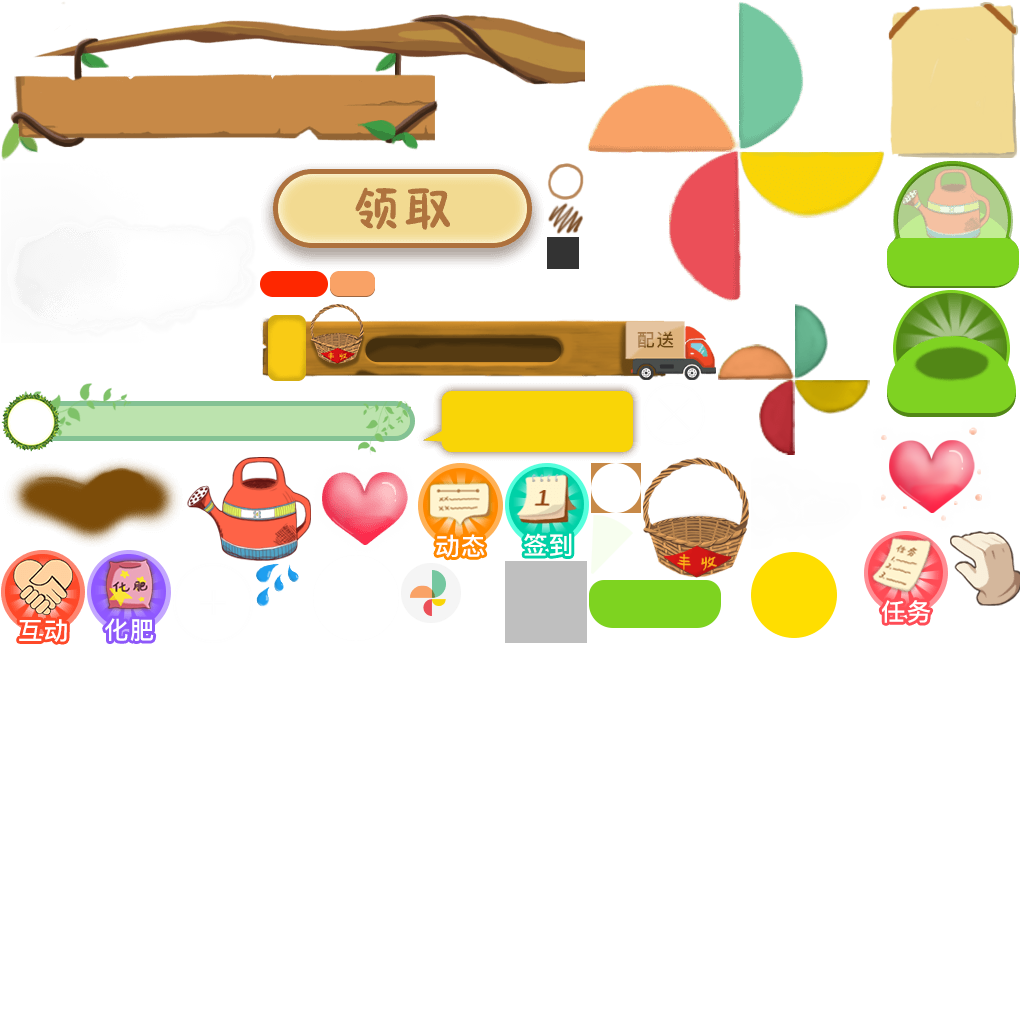
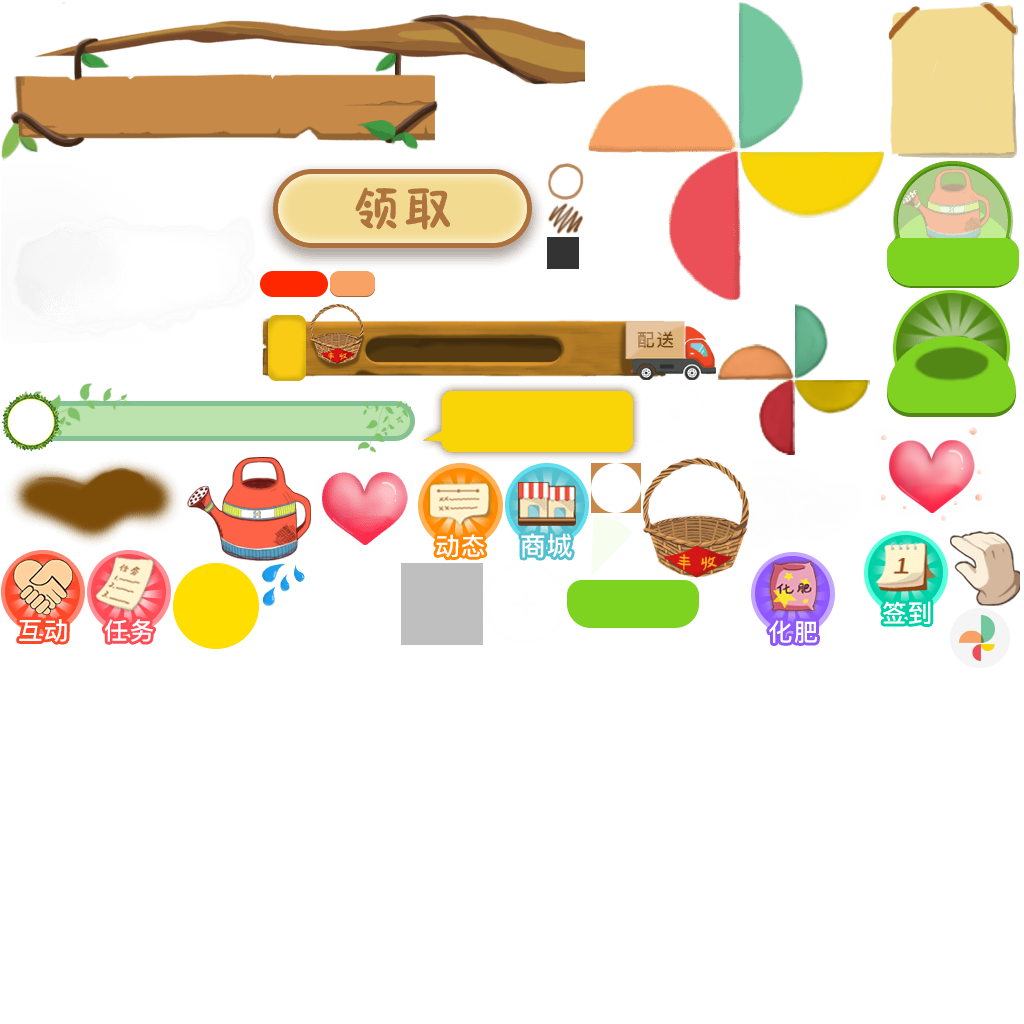
修改化肥动画，添加商城入口，修改浇水更新会回到自己果园

Changed region(s): [[0.375, 0.4375, 0.5938, 0.6562], [0.6562, 0.5, 0.9688, 0.6562], [0.0625, 0.5312, 0.2812, 0.6562]]

diff --git a/src/Game/MainScene.ts b/src/Game/MainScene.ts
@@ -82,6 +82,8 @@ class MainScene extends eui.Component implements eui.UIComponent {
 	private guide_img: eui.Image;
 	private share_friend:eui.Image;
 	private scr_seed:eui.Scroller;
+	private hasCheck = false;			//是否检查过好友
+	private btn_store:eui.Image;
 
 
 	/**
@@ -167,6 +169,11 @@ class MainScene extends eui.Component implements eui.UIComponent {
 		this.gro_love.addEventListener(egret.TouchEvent.TOUCH_TAP, this.loveTouch, this);
 		this.friend_kettle.addEventListener(egret.TouchEvent.TOUCH_TAP, this.friend_water, this)
 		this.guide_img.addEventListener(egret.TouchEvent.TOUCH_TAP, this.toGuide, this);
+		this.btn_store.addEventListener(egret.TouchEvent.TOUCH_TAP,this.tostroe,this)
+	}
+
+	private tostroe(){
+		location.href = Config.webHome + "view/index.html"
 	}
 
 	private toGuide() {
@@ -975,7 +982,10 @@ class MainScene extends eui.Component implements eui.UIComponent {
 					SceneManager.addtreePrompt("我的果实长好啦，快使用篮子将果子摘下来吧！")
 				}
 				this.setState("havetree");
-				SceneManager.sceneManager.checkAddFriend()
+				if(!this.hasCheck){
+					SceneManager.sceneManager.checkAddFriend();
+					this.hasCheck = true;	
+				}
 				this.user_name.text = Help.getcharlength(treedata.data.userName, 3);
 				let params = {
 					users: treedata.data.user
@@ -1598,13 +1608,13 @@ class MainScene extends eui.Component implements eui.UIComponent {
 		let n = 0;
 		let m = 0;
 		for (let i = 0; i < data.length; i++) {
-			if (data[i].propType == 0) {
+			if (data[i].propType == 1) {
 				n++
 				if (n < 4) {
 					this.putgrass(data[i].id, n);
 				}
 			}
-			if (data[i].propType == 1) {
+			if (data[i].propType == 0) {
 				m++
 				if (m < 4) {
 					this.putinsect(data[i].id, m);
@@ -1715,7 +1725,12 @@ class MainScene extends eui.Component implements eui.UIComponent {
 
 	//水滴动画
 	private waterTwn(data?) {
-		this.img_water.visible = true;
+		if(data && this.currentState == "friendtree"){
+			this.img_water.visible = true;	
+		}
+		else if(!data && this.currentState == "havetree"){
+			this.img_water.visible = true;
+		}
 		egret.Tween.get(this.img_water)
 			.set({ y: 860, x: 386, alpha: 1 })
 			.to({ y: 900, x: 366, alpha: 0.2 }, 500)
@@ -1742,7 +1757,11 @@ class MainScene extends eui.Component implements eui.UIComponent {
 
 	// 水壶冷却展现
 	private tettleEad() {
-		this.getOwnTree();
+		if(this.currentState == "havetree"){
+			this.getOwnTree();
+		}else if(this.currentState == "friendtree"){
+			this.img_water.visible = false;
+		}
 		this.gro_kettle.visible = false;
 		this.showtime(this.a);
 		this.gro_lq.visible = true;
@@ -1827,18 +1846,18 @@ class MainScene extends eui.Component implements eui.UIComponent {
 		let icon = new eui.Image();
 		if (type == 1) {
 			icon.texture = RES.getRes("youji");
-			icon.x = 77;
-			icon.y = 892;
+			icon.x = 68;
+			icon.y = 884;
 		}
 		else if (type == 2) {
 			icon.texture = RES.getRes("fuhe");
-			icon.x = 144;
-			icon.y = 1005;
+			icon.x = 177.5;
+			icon.y = 976;
 		}
 		else if (type == 3) {
 			icon.texture = RES.getRes("shuirong");
-			icon.x = 169;
-			icon.y = 1129;
+			icon.x = 212;
+			icon.y = 1096;
 		}
 		icon.anchorOffsetX = icon.width / 2;
 		icon.anchorOffsetY = icon.height / 2;

diff --git a/template/web/index.html b/template/web/index.html
@@ -3,7 +3,7 @@
 
 <head>
     <meta charset="utf-8">
-    <title>Egret</title>
+    <title>果说说农场</title>
     <meta name="viewport" content="width=device-width,initial-scale=1, minimum-scale=1, maximum-scale=1, user-scalable=no" />
     <meta name="apple-mobile-web-app-capable" content="yes" />
     <meta name="full-screen" content="true" />
@@ -13,7 +13,7 @@
     <style>
         html, body {
             -ms-touch-action: none;
-            background: #888888;
+            background: #ffffff;
             padding: 0;
             border: 0;
             margin: 0;
@@ -25,12 +25,11 @@
 <body>
     <div style="margin: auto;width: 100%;height: 100%;" class="egret-player"
          data-entry-class="Main"
-         data-orientation="auto"
-         data-scale-mode="showAll"
-         data-frame-rate="30"
-         data-content-width="640"
-         data-content-height="1136"
-         data-show-paint-rect="false"
+         data-orientation="portrait"
+         data-scale-mode="fixedWidth"
+         data-frame-rate="60"
+         data-content-width="750"
+         data-content-height="1208"
          data-multi-fingered="2"
          data-show-fps="false" data-show-log="false"
          data-show-fps-style="x:0,y:0,size:12,textColor:0xffffff,bgAlpha:0.9">

diff --git a/src/Game/Help.ts b/src/Game/Help.ts
@@ -436,10 +436,11 @@ class Help{
 
 
     //截屏功能
-    public static Screencapture(DisplayObject){
+    public static Screencapture(DisplayObject:eui.Group){
         var renderTexture:egret.RenderTexture = new egret.RenderTexture();
         renderTexture.drawToTexture(DisplayObject);
-        renderTexture.saveToFile("image/png", "a/down.png", new egret.Rectangle(20, 20, 200, 200));
+        let capture = renderTexture.toDataURL("image/png",new egret.Rectangle(0,0,DisplayObject.width,DisplayObject.height));
+        console.log(capture,"截屏")
     }
 }
 	

diff --git a/src/Game/PromptShare.ts b/src/Game/PromptShare.ts
@@ -46,7 +46,7 @@ class PromptShare extends eui.Component implements eui.UIComponent{
         if(this.parent){
             this.parent.removeChild(this);
             SceneManager.sceneManager.mainScene.enabled = true;
-            SceneManager.addJump("share_pick");
+            SceneManager.addJump("share_pick_png");
             let url = SceneManager.instance.weixinUtil.shareData.shareUrl
             let addFriend = MyRequest.geturlstr("addFriend", url)
             if (!addFriend) {

diff --git a/src/Http/GameWebSocket.ts b/src/Http/GameWebSocket.ts
@@ -107,6 +107,10 @@ class GameWebSocket extends egret.DisplayObjectContainer {
                         SceneManager.instance.mainScene.getOwnTree();
                     }
                     break;
+                    case "unEnoughBasket" : {
+                        info = "提醒你果篮不够！"
+                    }
+                    break;
                 }
                 let userName = pushMsg.userName;
                 let userId = pushMsg.userId;

diff --git a/template/runtime/native_require.js b/template/runtime/native_require.js
@@ -32,7 +32,7 @@ egret_native.egretStart = function () {
         //The following is automatically modified, please do not modify
         //----auto option start----
 		entryClassName: "Main",
-		frameRate: 30,
+		frameRate: 60,
 		scaleMode: "fixedWidth",
 		contentWidth: 750,
 		contentHeight: 1208,
